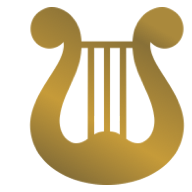
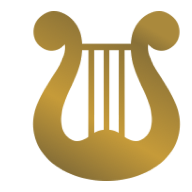
fix(android): bump to v1.0.1 (code 2), apply 28px margins, and sync latest apk everywhere

diff --git a/android/app/src/main/java/com/apollo/choir/ApolloMediaService.java b/android/app/src/main/java/com/apollo/choir/ApolloMediaService.java
@@ -432,8 +432,8 @@ public class ApolloMediaService extends Service {
             Bitmap padded = Bitmap.createBitmap(targetDim, targetDim, Bitmap.Config.ARGB_8888);
             Canvas canvas = new Canvas(padded);
 
-            // Scale to ~93% of canvas for 'a few pixels margin' (~18px margin on 512x512)
-            float margin = targetDim * (18f / 512f);
+            // Scale to ~89% of canvas for 'a few pixels margin' (~28px margin on 512x512)
+            float margin = targetDim * (28f / 512f);
             float contentDim = targetDim - 2f * margin;
             float scale = Math.min(contentDim / w, contentDim / h);
             float destW = w * scale;
